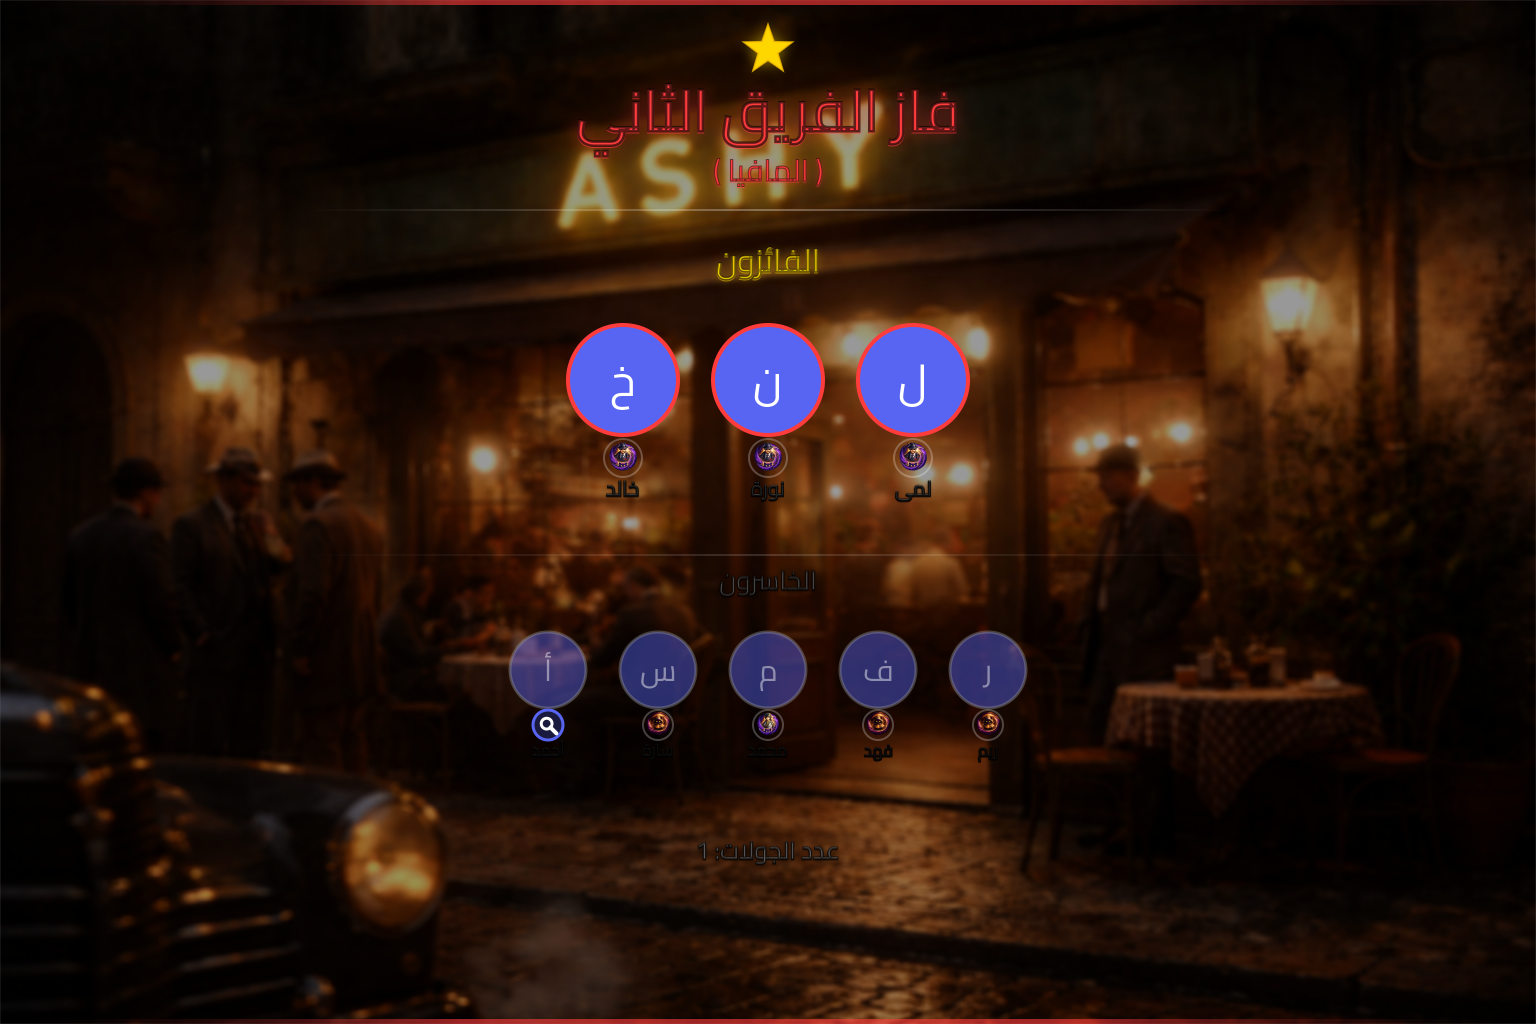
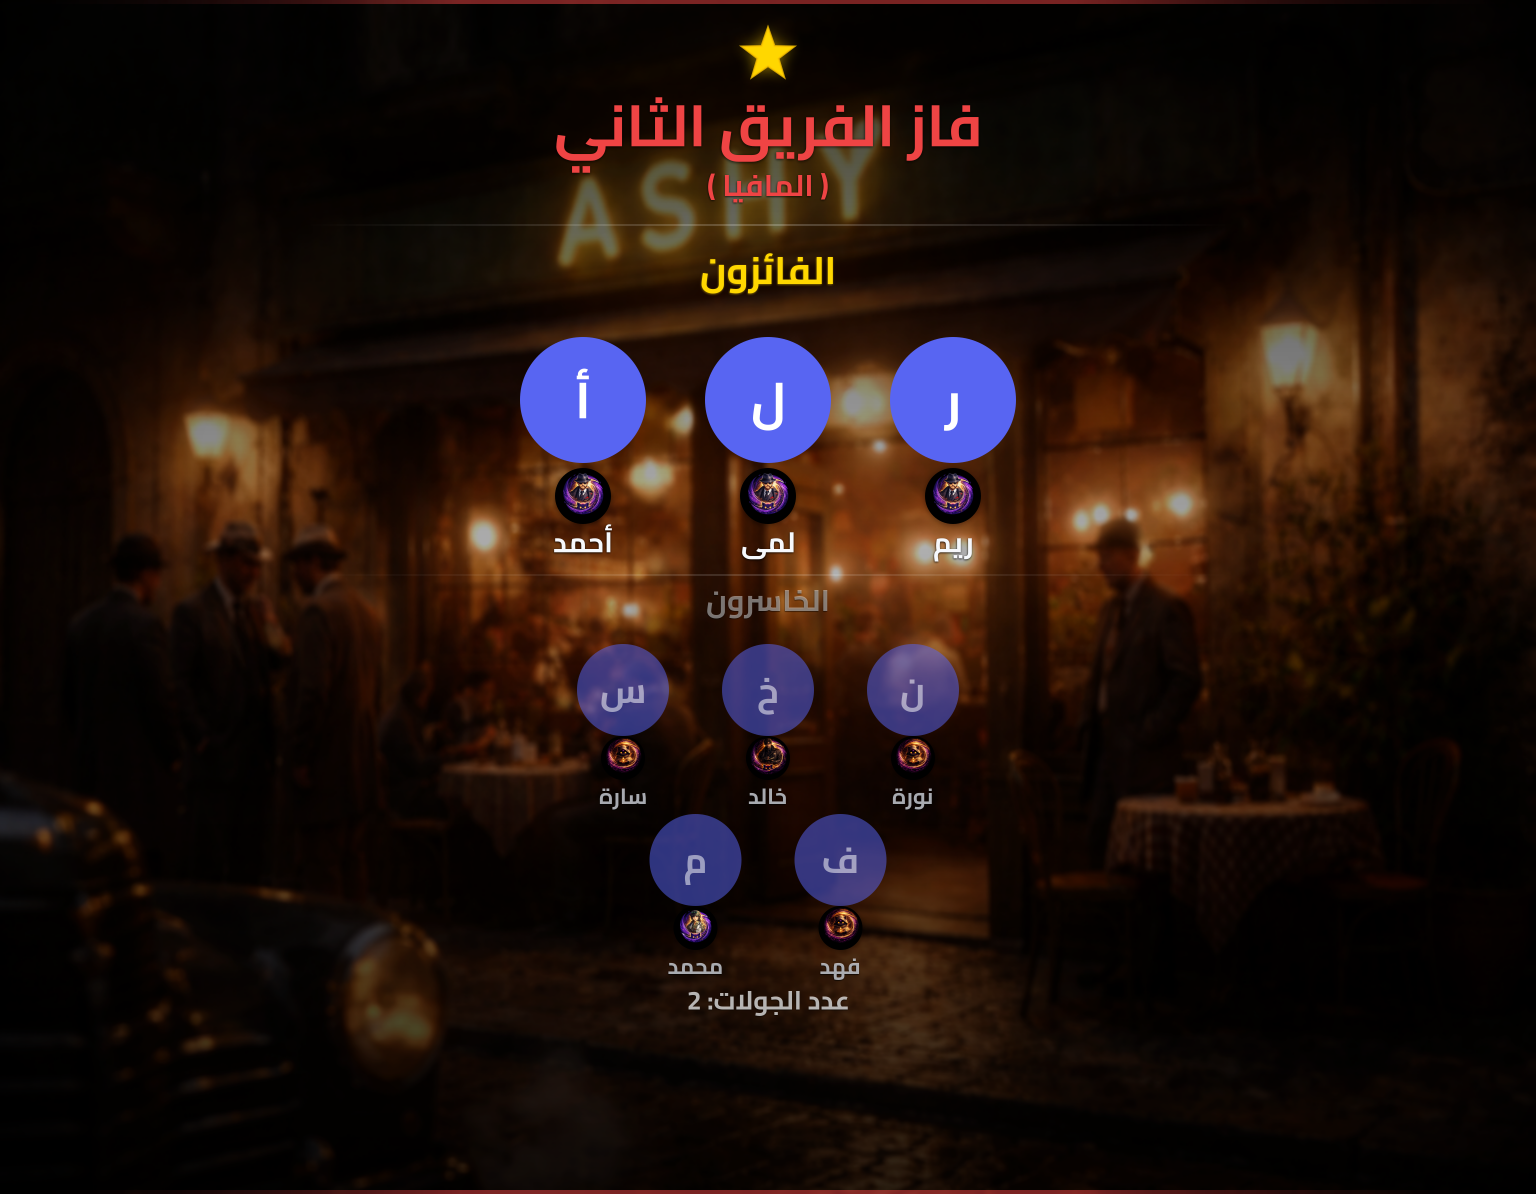
stuff

diff --git a/src/games/mafia/mafia.images.js b/src/games/mafia/mafia.images.js
@@ -163,7 +163,8 @@ async function loadRoleIcons() {
 // ==================== DRAWING HELPERS ====================
 
 /**
- * Draw text with glow/shadow effect
+ * Draw text with Fizbo-style subtle shadow (no thick strokes)
+ * Fizbo uses: clean text + soft shadow, NO heavy outlines
  */
 function drawGlowText(ctx, text, x, y, options = {}) {
   const {
@@ -171,10 +172,10 @@ function drawGlowText(ctx, text, x, y, options = {}) {
     color = '#FFFFFF',
     align = 'center',
     baseline = 'middle',
-    glowColor = 'rgba(0,0,0,0.65)',
-    glowBlur = 5,
-    outlineColor = 'rgba(0,0,0,0.5)',
-    outlineWidth = 0.8,
+    glowColor = 'rgba(0,0,0,0.75)',
+    glowBlur = 4,
+    outlineColor = null,  // Fizbo doesn't use outlines by default
+    outlineWidth = 0,
   } = options;
 
   ctx.save();
@@ -182,17 +183,19 @@ function drawGlowText(ctx, text, x, y, options = {}) {
   ctx.textAlign = align;
   ctx.textBaseline = baseline;
 
+  // Subtle shadow (Fizbo style)
   if (glowBlur > 0) {
     ctx.shadowColor = glowColor;
     ctx.shadowBlur = glowBlur;
     ctx.shadowOffsetX = 0;
-    ctx.shadowOffsetY = 0;
+    ctx.shadowOffsetY = 2;
   }
 
   ctx.fillStyle = color;
   ctx.fillText(text, x, y);
 
-  if (outlineWidth > 0) {
+  // Only stroke if explicitly requested (rare in Fizbo)
+  if (outlineWidth > 0 && outlineColor) {
     ctx.shadowBlur = 0;
     ctx.lineWidth = outlineWidth;
     ctx.strokeStyle = outlineColor;
@@ -204,11 +207,25 @@ function drawGlowText(ctx, text, x, y, options = {}) {
 
 /**
  * Draw an image inside a circular clip (center-cropped to square)
+ * Fizbo style: NO border ring, only shadow for depth
  */
 function drawCircularIcon(ctx, img, cx, cy, size, borderWidth) {
   const radius = size / 2;
-  ctx.save();
 
+  // Draw shadow BEFORE clipping
+  ctx.save();
+  ctx.shadowColor = 'rgba(0, 0, 0, 0.35)';
+  ctx.shadowBlur = 8;
+  ctx.shadowOffsetX = 0;
+  ctx.shadowOffsetY = 3;
+  ctx.beginPath();
+  ctx.arc(cx, cy, radius, 0, Math.PI * 2);
+  ctx.fillStyle = '#000';
+  ctx.fill();
+  ctx.restore();
+
+  // Draw image with circular clip
+  ctx.save();
   ctx.beginPath();
   ctx.arc(cx, cy, radius, 0, Math.PI * 2);
   ctx.closePath();
@@ -221,14 +238,7 @@ function drawCircularIcon(ctx, img, cx, cy, size, borderWidth) {
   ctx.drawImage(img, sx, sy, srcSize, srcSize, cx - radius, cy - radius, size, size);
   ctx.restore();
 
-  // Border ring
-  ctx.save();
-  ctx.beginPath();
-  ctx.arc(cx, cy, radius, 0, Math.PI * 2);
-  ctx.lineWidth = borderWidth || CFG.icons.borderWidth || 2;
-  ctx.strokeStyle = 'rgba(255, 255, 255, 0.25)';
-  ctx.stroke();
-  ctx.restore();
+  // NO border ring (Fizbo style)
 }
 
 /**
@@ -312,7 +322,8 @@ function drawAccentBar(ctx, y, width, height, glowColor) {
 }
 
 /**
- * Draw background (image or gradient fallback) + overlay
+ * Draw background (image or gradient fallback) + Fizbo-style overlay
+ * Fizbo uses: dark gradient (darker at edges) + vignette for premium readability
  */
 async function drawBackground(ctx, width, height, overlayAlpha = 0.3) {
   const bgImg = await loadCachedImage(CFG.assets.background);
@@ -325,7 +336,21 @@ async function drawBackground(ctx, width, height, overlayAlpha = 0.3) {
     ctx.fillStyle = grad;
     ctx.fillRect(0, 0, width, height);
   }
-  ctx.fillStyle = `rgba(0, 0, 0, ${overlayAlpha})`;
+
+  // Fizbo-style gradient overlay (darker at top/bottom, lighter in middle)
+  const overlayGrad = ctx.createLinearGradient(0, 0, 0, height);
+  overlayGrad.addColorStop(0, `rgba(0, 0, 0, ${overlayAlpha * 1.8})`);    // Darker at top
+  overlayGrad.addColorStop(0.45, `rgba(0, 0, 0, ${overlayAlpha * 0.65})`); // Lighter in middle
+  overlayGrad.addColorStop(1, `rgba(0, 0, 0, ${overlayAlpha * 1.9})`);    // Darker at bottom
+  ctx.fillStyle = overlayGrad;
+  ctx.fillRect(0, 0, width, height);
+
+  // Vignette effect (darker at edges, radial)
+  const vignetteGrad = ctx.createRadialGradient(width / 2, height / 2, 0, width / 2, height / 2, Math.max(width, height) * 0.85);
+  vignetteGrad.addColorStop(0, 'rgba(0, 0, 0, 0)');
+  vignetteGrad.addColorStop(0.7, 'rgba(0, 0, 0, 0.25)');
+  vignetteGrad.addColorStop(1, 'rgba(0, 0, 0, 0.5)');
+  ctx.fillStyle = vignetteGrad;
   ctx.fillRect(0, 0, width, height);
 }
 
@@ -354,12 +379,13 @@ function drawRoleIcon(ctx, cx, cy, roleKey, iconImg, iconSize) {
     drawDetectiveFallback(ctx, cx, cy, iconSize);
   }
 
+  // Fizbo style: clean role text with subtle shadow
   const name = ROLE_NAMES[roleKey] || roleKey;
   drawGlowText(ctx, name, cx, cy + CFG.roleText.offsetY, {
     font: `700 ${CFG.roleText.fontSize}px ${CFG.fonts.body || CFG.fonts.label}`,
     color: CFG.colors.roleText,
     glowBlur: 3,
-    glowColor: 'rgba(0,0,0,0.8)',
+    glowColor: 'rgba(0, 0, 0, 0.85)',
   });
 }
 
@@ -585,14 +611,8 @@ async function drawPlayerAvatar(ctx, player, cx, cy, cfg, options = {}) {
     }
   }
 
-  // Border ring (colored for winners, grey for losers)
-  ctx.save();
-  ctx.beginPath();
-  ctx.arc(cx, cy, radius, 0, Math.PI * 2);
-  ctx.lineWidth = cfg.borderWidth;
-  ctx.strokeStyle = dimmed ? 'rgba(150, 150, 150, 0.4)' : (accentColor || borderColor);
-  ctx.stroke();
-  ctx.restore();
+  // Fizbo style: NO border ring, only subtle shadow (already drawn by drawCircularIcon)
+  // (Border rings removed for clean look)
 
   // Death badge for dead winners
   if (!dimmed && !player.alive) {
@@ -622,12 +642,12 @@ async function drawPlayerAvatar(ctx, player, cx, cy, cfg, options = {}) {
     maxWidth: maxNameWidth,
   });
 
+  // Fizbo style: clean player names, NO outlines
   drawGlowText(ctx, safeName, cx, nameY, {
     font: `700 ${fittedSize}px ${CFG.fonts.small || CFG.fonts.body || CFG.fonts.label}`,
     color: nameColor,
-    glowBlur: dimmed ? 1.5 : 2.2,
-    glowColor: 'rgba(0,0,0,0.8)',
-    outlineWidth: dimmed ? 0.5 : 0.7,
+    glowBlur: dimmed ? 2 : 3,
+    glowColor: 'rgba(0, 0, 0, 0.85)',
   });
 }
 
@@ -685,22 +705,19 @@ export async function generateTeamsBanner(dist, detectiveEnabled) {
     // 2. Team labels
     const labelFont = `700 ${CFG.teamLabels.fontSize}px ${CFG.fonts.label}`;
 
+    // Fizbo style: clean text, subtle shadow, NO outlines
     drawGlowText(ctx, 'الفريق الثاني', CFG.teamLabels.team2.x, CFG.teamLabels.team2.y, {
       font: labelFont,
       color: CFG.colors.team2,
-      glowColor: CFG.colors.team2Glow || 'rgba(239,68,68,0.45)',
-      glowBlur: 6,
-      outlineWidth: 0.8,
-      outlineColor: 'rgba(0,0,0,0.32)',
+      glowColor: 'rgba(0, 0, 0, 0.8)',
+      glowBlur: 4,
     });
 
     drawGlowText(ctx, 'الفريق الاول', CFG.teamLabels.team1.x, CFG.teamLabels.team1.y, {
       font: labelFont,
       color: CFG.colors.team1,
-      glowColor: CFG.colors.team1Glow || 'rgba(74,222,128,0.45)',
-      glowBlur: 6,
-      outlineWidth: 0.8,
-      outlineColor: 'rgba(0,0,0,0.32)',
+      glowColor: 'rgba(0, 0, 0, 0.8)',
+      glowBlur: 4,
     });
 
     // 3. Load role icons
@@ -739,24 +756,24 @@ export async function generateTeamsBanner(dist, detectiveEnabled) {
     const objFont = `700 ${CFG.objectives.fontSize}px ${CFG.fonts.body || CFG.fonts.label}`;
     const dotR = 7;
 
-    // Team 1 objective (right side)
+    // Team 1 objective (right side) - Fizbo style
     const obj1X = CFG.objectives.team1.x;
     drawColoredDot(ctx, obj1X - 180, objY, dotR, CFG.colors.team1);
     drawGlowText(ctx, 'الهدف : كشف المافيا قبل ما ينقتلون', obj1X, objY, {
       font: objFont,
       color: CFG.colors.team1,
       glowBlur: 3,
-      glowColor: 'rgba(60, 255, 107, 0.4)',
+      glowColor: 'rgba(0, 0, 0, 0.8)',
     });
 
-    // Team 2 objective (left side)
+    // Team 2 objective (left side) - Fizbo style
     const obj2X = CFG.objectives.team2.x;
     drawColoredDot(ctx, obj2X - 180, objY, dotR, CFG.colors.team2);
     drawGlowText(ctx, 'الهدف : اغتيال جميع اعضاء الشعب', obj2X, objY, {
       font: objFont,
       color: CFG.colors.team2,
       glowBlur: 3,
-      glowColor: 'rgba(255, 60, 60, 0.4)',
+      glowColor: 'rgba(0, 0, 0, 0.8)',
     });
 
     // 7. Downsample and export
@@ -820,23 +837,20 @@ export async function generateWinBanner(winningTeam, players, roundsPlayed) {
     // 4. Canvas-drawn trophy (no emoji)
     drawCanvasTrophy(ctx, width / 2, WB.trophy.y, WB.trophy.size);
 
-    // 5. Title
+    // 5. Title - Fizbo style (clean, no outlines)
     drawGlowText(ctx, `فاز ${teamName}`, width / 2, WB.title.y, {
       font: `700 ${WB.title.fontSize}px ${CFG.fonts.title || CFG.fonts.label}`,
       color: accentColor,
-      glowColor: accentGlow,
-      glowBlur: 7,
-      outlineWidth: 0.9,
-      outlineColor: 'rgba(0,0,0,0.35)',
+      glowColor: 'rgba(0, 0, 0, 0.8)',
+      glowBlur: 5,
     });
 
-    // 6. Subtitle
+    // 6. Subtitle - Fizbo style
     drawGlowText(ctx, `( ${teamSubtitle} )`, width / 2, WB.title.subtitleY, {
       font: `700 ${WB.title.subtitleFontSize}px ${CFG.fonts.label}`,
       color: accentColor,
-      glowColor: accentGlow,
+      glowColor: 'rgba(0, 0, 0, 0.8)',
       glowBlur: 4,
-      outlineWidth: 0.6,
     });
 
     // 7. Divider

diff --git a/src/config/mafia.visual.config.js b/src/config/mafia.visual.config.js
@@ -135,9 +135,10 @@ export const MAFIA_VISUAL_CONFIG = {
     fontSize: 42,
   },
 
+  // Fizbo-style overlay (darker for better text readability)
   overlayAlpha: {
-    teams: 0.12,
-    win: 0.14,
+    teams: 0.40,   // Darker overlay like Fizbo
+    win: 0.42,     // Darker overlay like Fizbo
   },
 
   // ==================== WIN BANNER ====================
